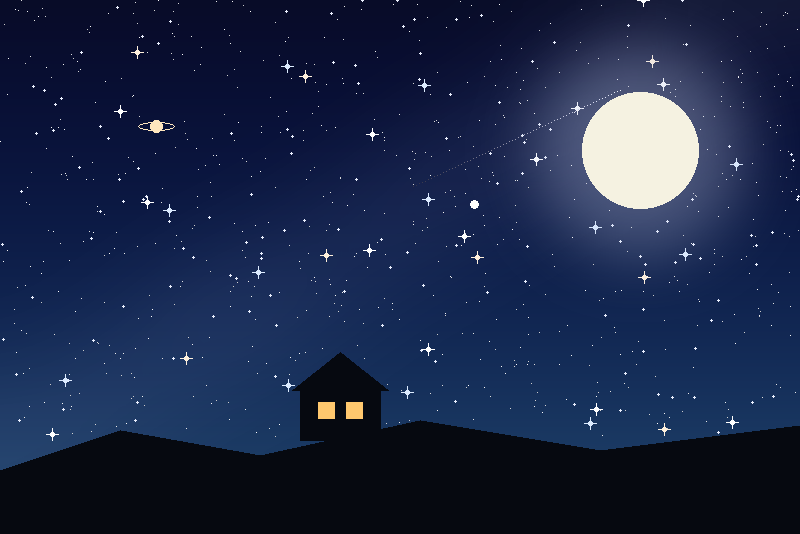
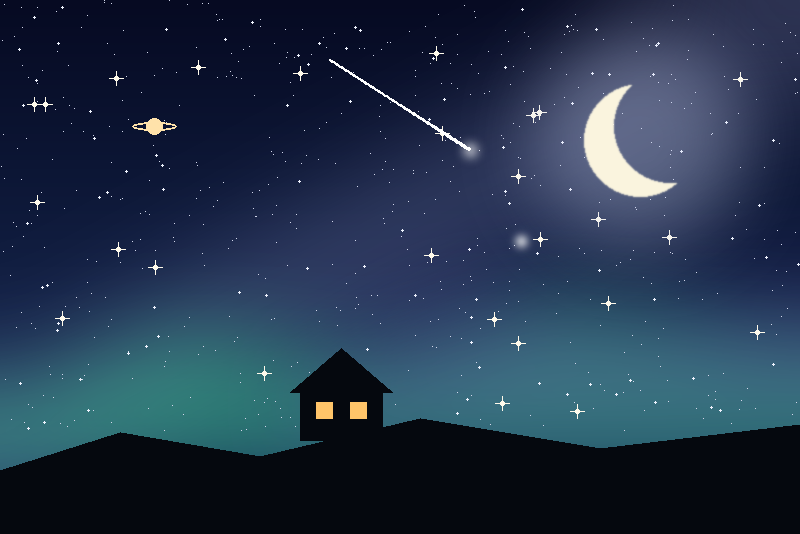
fix(widgets): calendar-day badges, readable tiles and markers; new cover
The agenda badge counted 24-hour slices: an event at 02:05 tomorrow read
"Today". Badges now count local calendar days. The moonless-duration
tile label no longer truncates, the night chart keeps two markers so the
labels stop overlapping, and the cover shows a real crescent, a meteor
and an aurora glow.

diff --git a/test/widgets.test.js b/test/widgets.test.js
@@ -43,7 +43,7 @@ test('tonight: gauge, five tiles, a score curve with dusk/dawn markers, the plan
   assert.ok(chart.series[0].points.length > 40);
   assert.deepEqual(
     chart.annotations.map((a) => a.label),
-    ['Crépuscule', 'Nuit noire', 'Sans Lune', 'Aube'],
+    ['Nuit noire', 'Sans Lune'],
   );
   assert.equal(chart.now_marker, true);
   const status = content.components.find((c) => c.type === 'status');
@@ -61,7 +61,8 @@ test('agenda: chronological cards, badges by urgency, category and period settin
   const list = content.components.find((c) => c.type === 'card-list');
   assert.equal(list.items.length, 8);
   assert.equal(list.items[0].title, 'Équinoxe d’automne');
-  assert.equal(list.items[0].badge.text, 'J-2');
+  // 20/09 at noon -> equinox on 23/09 at 02:05 local: three calendar days.
+  assert.equal(list.items[0].badge.text, 'J-3');
   assert.equal(list.items[0].badge.color, 'warning');
   const dates = list.items.map((i) => Date.parse(i.date));
   assert.deepEqual(
@@ -138,6 +139,15 @@ test('aurora: tiles colored by Kp, a bar chart, the alert annotation; disabled a
     config: down.config,
   });
   assert.match(unavailable.components[0].text, /NOAA does not answer/);
+});
+
+test('badges count calendar days: an event at 02:05 tomorrow is "Demain", not "Aujourd’hui"', async () => {
+  const { snapshot, config } = await computedSnapshot('2026-09-22T20:30:00Z');
+  const now = new Date('2026-09-22T20:30:00Z'); // 22:30 in Paris, equinox at 02:05
+  const content = WIDGETS.astro_agenda(snapshot, { settings: {}, language: 'fr', now, config });
+  const first = content.components.find((c) => c.type === 'card-list').items[0];
+  assert.equal(first.title, 'Équinoxe d’automne');
+  assert.deepEqual(first.badge, { text: 'Demain', color: 'danger' });
 });
 
 test('refresh map only names declared widgets', () => {

diff --git a/src/widgets/i18n.js b/src/widgets/i18n.js
@@ -14,18 +14,16 @@ export const STRINGS = {
     conjunction: 'Conjonction',
     visible: 'visible',
     notVisible: 'non visible',
-    inDays: (days) => (days < 1 ? 'Aujourd’hui' : days < 2 ? 'Demain' : `J-${Math.floor(days)}`),
+    inDays: (days) => (days === 0 ? 'Aujourd’hui' : days === 1 ? 'Demain' : `J-${days}`),
     nightOf: (date, score) => `Nuit du ${date} · meilleur ciel ${score}/10`,
     skyNow: 'Ciel maintenant',
     moonlessFrom: 'Sans Lune dès',
-    moonlessLength: 'Durée sans Lune',
+    moonlessLength: 'Ciel noir',
     moon: 'Lune',
     planets: 'Planètes',
     noPlanet: 'aucune à l’œil nu',
     skyQuality: 'Qualité du ciel',
-    civilDusk: 'Crépuscule',
     astroDusk: 'Nuit noire',
-    astroDawn: 'Aube',
     moonlessStart: 'Sans Lune',
     shower: 'Pluie active',
     noNight: 'Pas de nuit : le Soleil ne se couche pas.',
@@ -66,18 +64,16 @@ export const STRINGS = {
     conjunction: 'Conjunction',
     visible: 'visible',
     notVisible: 'not visible',
-    inDays: (days) => (days < 1 ? 'Today' : days < 2 ? 'Tomorrow' : `In ${Math.floor(days)} d`),
+    inDays: (days) => (days === 0 ? 'Today' : days === 1 ? 'Tomorrow' : `In ${days} d`),
     nightOf: (date, score) => `Night of ${date} · best sky ${score}/10`,
     skyNow: 'Sky now',
     moonlessFrom: 'Moonless from',
-    moonlessLength: 'Moonless for',
+    moonlessLength: 'Dark sky',
     moon: 'Moon',
     planets: 'Planets',
     noPlanet: 'none to the naked eye',
     skyQuality: 'Sky quality',
-    civilDusk: 'Dusk',
     astroDusk: 'Dark sky',
-    astroDawn: 'Dawn',
     moonlessStart: 'Moonless',
     shower: 'Active shower',
     noNight: 'No night: the Sun does not set.',

diff --git a/src/widgets/eclipse.js b/src/widgets/eclipse.js
@@ -1,5 +1,5 @@
 // Widget "Next eclipse": countdown and phases of the next visible eclipse.
-import { localize, message, daysBetween } from './common.js';
+import { localize, message, calendarDays } from './common.js';
 
 export const KEY = 'astro_eclipse';
 
@@ -72,7 +72,7 @@ export function build(snapshot, { settings = {}, language, now }) {
   }
   const title =
     e.body === 'sun' ? s.solarEclipse(fmt.t.kind[e.kind]) : s.lunarEclipse(fmt.t.kind[e.kind]);
-  const days = daysBetween(e.start, now);
+  const days = calendarDays(e.start, now);
   const items = [{ label: s.date, value: fmt.date(e.peak), icon: 'calendar', color: 'primary' }];
   for (const [key, when] of e.phases) {
     if (!when) {
@@ -90,8 +90,8 @@ export function build(snapshot, { settings = {}, language, now }) {
       { type: 'text', variant: 'heading', text: title },
       {
         type: 'value',
-        value: days < 1 ? s.inDays(days) : Math.floor(days),
-        unit: days < 1 ? undefined : s.daysUnit,
+        value: days < 2 ? s.inDays(days) : days,
+        unit: days < 2 ? undefined : s.daysUnit,
         label: s.eclipseIn,
         icon: 'clock',
         color: days <= 7 ? 'warning' : 'primary',

diff --git a/src/widgets/common.js b/src/widgets/common.js
@@ -1,6 +1,7 @@
 // Shared helpers of the widget builders.
 import { createFormatter } from '../formatters.js';
 import { strings } from './i18n.js';
+import { localMidnight } from '../time.js';
 
 const DAY_MS = 24 * 3600 * 1000;
 
@@ -19,17 +20,22 @@ export function message(text, ttlSeconds = 300) {
   };
 }
 
+/**
+ * Whole calendar days between today and the local day of `time` (0 = today,
+ * 1 = tomorrow), whatever the hour: an event at 02:05 tomorrow is "tomorrow",
+ * not "today" because it is less than 24 h away.
+ */
+export function calendarDays(time, now) {
+  return Math.max(0, Math.round((localMidnight(time) - localMidnight(now)) / DAY_MS));
+}
+
 /** Color of an "in N days" badge. */
 export function urgency(time, now) {
-  const days = (time - now) / DAY_MS;
+  const days = calendarDays(time, now);
   if (days <= 1) {
     return 'danger';
   }
   return days <= 7 ? 'warning' : 'info';
-}
-
-export function daysBetween(time, now) {
-  return Math.max(0, (time - now) / DAY_MS);
 }
 
 export function iso(date) {

diff --git a/src/widgets/agenda.js b/src/widgets/agenda.js
@@ -1,6 +1,6 @@
 // Widget "Sky agenda": the next events of every kind, as a list of cards.
 import { buildAgenda, CATEGORIES } from '../agenda.js';
-import { localize, message, urgency, daysBetween, iso } from './common.js';
+import { localize, message, urgency, calendarDays, iso } from './common.js';
 
 export const KEY = 'astro_agenda';
 
@@ -40,7 +40,7 @@ export function build(snapshot, { settings = {}, language, now }) {
           title: e.title,
           subtitle: e.subtitle,
           date: iso(e.time),
-          badge: { text: s.inDays(daysBetween(e.time, now)), color: urgency(e.time, now) },
+          badge: { text: s.inDays(calendarDays(e.time, now)), color: urgency(e.time, now) },
           description: e.details,
         })),
       },

diff --git a/src/widgets/tonight.js b/src/widgets/tonight.js
@@ -54,11 +54,10 @@ export function build(snapshot, { language }) {
     },
   ];
 
+  // Two markers only: dusk, dawn and "now" crowd the labels on a phone.
   const annotations = [
-    [twilights.civil.dusk, s.civilDusk, 'neutral'],
-    [twilights.astronomical.dusk, s.astroDusk, 'primary'],
+    [twilights.astronomical.dusk ?? twilights.nautical.dusk, s.astroDusk, 'primary'],
     [moonless?.start, s.moonlessStart, 'success'],
-    [twilights.astronomical.dawn, s.astroDawn, 'neutral'],
   ]
     .filter(([t]) => t)
     .map(([t, label, color]) => ({ t: iso(t), label, color }));
